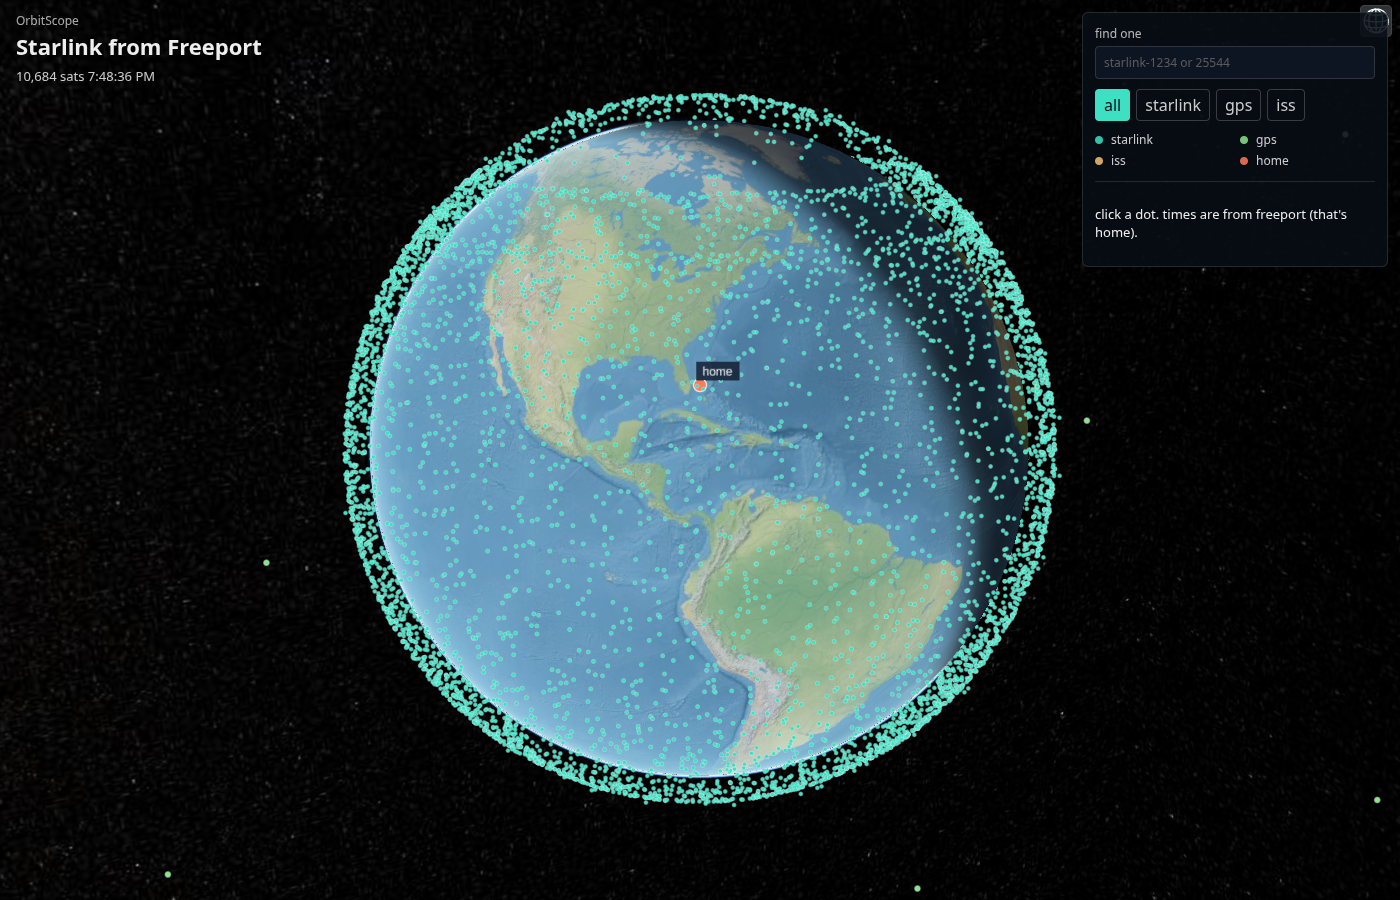
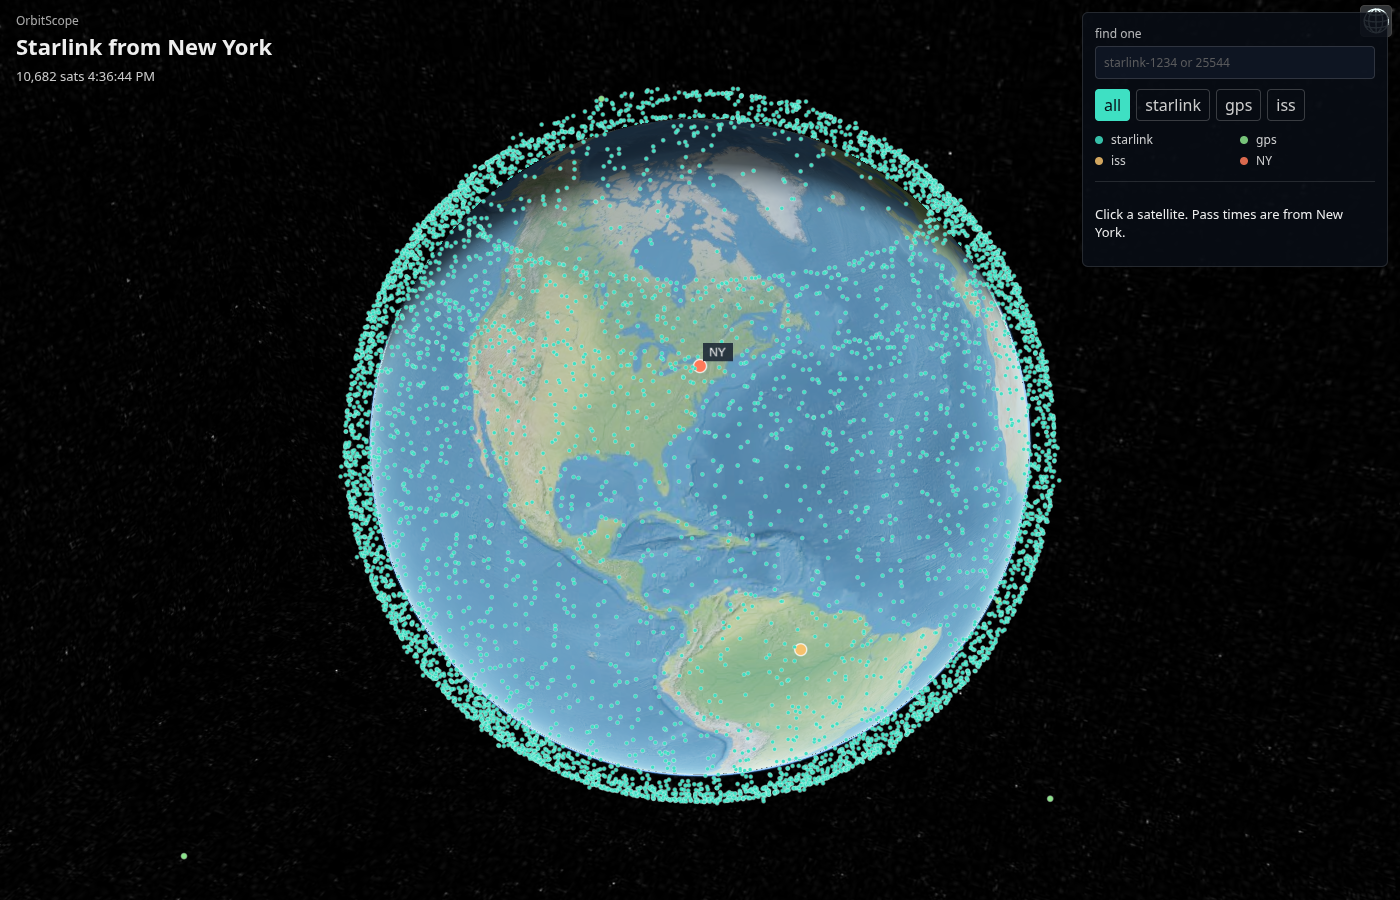
Use New York as the default observer
Pass times and the map pin are for New York in general, not a town.

diff --git a/web/src/globe.ts b/web/src/globe.ts
@@ -45,9 +45,9 @@ export async function createGlobe(container: string): Promise<GlobeHandle> {
   viewer.clock.shouldAnimate = false;
 
   viewer.entities.add({
-    id: "freeport",
-    name: "Freeport, Bahamas",
-    position: Cesium.Cartesian3.fromDegrees(-78.7, 26.5333),
+    id: "newyork",
+    name: "New York",
+    position: Cesium.Cartesian3.fromDegrees(-75.5, 43.0),
     point: {
       pixelSize: 11,
       color: Cesium.Color.fromCssColorString("#ff7a59"),
@@ -55,7 +55,7 @@ export async function createGlobe(container: string): Promise<GlobeHandle> {
       outlineWidth: 1,
     },
     label: {
-      text: "home",
+      text: "NY",
       font: "12px sans-serif",
       fillColor: Cesium.Color.WHITE,
       pixelOffset: new Cesium.Cartesian2(18, -14),
@@ -119,14 +119,14 @@ export async function createGlobe(container: string): Promise<GlobeHandle> {
     if (typeof value === "number") {
       return value;
     }
-    if (value && typeof value.id === "string" && value.id !== "freeport") {
+    if (value && typeof value.id === "string" && value.id !== "newyork") {
       return Number(value.id);
     }
     return undefined;
   };
 
   viewer.camera.setView({
-    destination: Cesium.Cartesian3.fromDegrees(-78.7, 18.0, 18_000_000),
+    destination: Cesium.Cartesian3.fromDegrees(-75.5, 32.0, 18_000_000),
   });
 
   return { viewer, apply, pickId };

diff --git a/web/index.html b/web/index.html
@@ -9,7 +9,7 @@
     <div id="globe"></div>
     <div class="hud">
       <div class="kicker">OrbitScope</div>
-      <h1>Starlink from Freeport</h1>
+      <h1>Starlink from New York</h1>
       <div id="status" class="status">waiting on the api…</div>
     </div>
     <div class="panel">
@@ -27,10 +27,10 @@
         <span><i class="dot starlink"></i> starlink</span>
         <span><i class="dot gps"></i> gps</span>
         <span><i class="dot iss"></i> iss</span>
-        <span><i class="dot ground"></i> home</span>
+        <span><i class="dot ground"></i> NY</span>
       </div>
       <div id="info" class="info">
-        <p>Click a satellite. Pass times are from Freeport.</p>
+        <p>Click a satellite. Pass times are from New York.</p>
       </div>
     </div>
     <script type="module" src="/src/main.ts"></script>

diff --git a/web/src/main.ts b/web/src/main.ts
@@ -34,7 +34,7 @@ async function showInfo(id: number, lat: number, lon: number, alt: number) {
     "<div>group: " + group + "</div>" +
     "<div>lat/lon: " + lat.toFixed(2) + ", " + lon.toFixed(2) + "</div>" +
     "<div>alt: " + alt.toFixed(1) + " km</div>" +
-    "<p class=\"pass\">checking when it flies over home…</p>";
+    "<p class=\"pass\">checking passes…</p>";
 
   try {
     const result = await fetchPasses(id);

diff --git a/src/main/java/orbitscope/web/SatelliteController.java b/src/main/java/orbitscope/web/SatelliteController.java
@@ -35,7 +35,7 @@ public class SatelliteController {
         body.put("name", "OrbitScope");
         body.put("satelliteCount", catalog.catalog().size());
         body.put("updatedAt", catalog.updatedAt());
-        body.put("observer", Observer.FREEPORT.name());
+        body.put("observer", Observer.NEW_YORK.name());
         body.put("endpoints", List.of(
                 "/satellites",
                 "/satellites/{id}/position",
@@ -82,7 +82,7 @@ public class SatelliteController {
     ) {
         Observer observer = (lat != null && lon != null)
                 ? new Observer("Custom", lat, lon, 10.0)
-                : Observer.FREEPORT;
+                : Observer.NEW_YORK;
         Satellite satellite = catalog.require(id);
         List<Pass> predicted = passes.predict(
                 satellite,

diff --git a/src/test/java/orbitscope/orbit/PassPredictorTest.java b/src/test/java/orbitscope/orbit/PassPredictorTest.java
@@ -24,10 +24,10 @@ class PassPredictorTest {
         Satellite iss = TleParser.readFile(Path.of("data/sample-iss.tle")).findById(25544);
         List<Pass> passes = new PassPredictor().predict(
                 iss,
-                Observer.FREEPORT,
+                Observer.NEW_YORK,
                 Instant.parse("2026-10-19T00:00:00Z"),
                 Duration.ofHours(24));
-        assertFalse(passes.isEmpty(), "ISS should rise over Freeport at least once a day");
+        assertFalse(passes.isEmpty(), "ISS should rise over New York at least once a day");
         for (Pass pass : passes) {
             assertTrue(pass.maxElevationDeg() >= 10.0);
             assertTrue(pass.end().isAfter(pass.start()) || pass.end().equals(pass.start()));

diff --git a/src/test/java/orbitscope/web/SatelliteApiTest.java b/src/test/java/orbitscope/web/SatelliteApiTest.java
@@ -61,10 +61,10 @@ class SatelliteApiTest {
     }
 
     @Test
-    void issPassesFromFreeport() throws Exception {
+    void issPassesFromNewYork() throws Exception {
         mvc.perform(get("/satellites/25544/passes").param("hours", "24"))
                 .andExpect(status().isOk())
-                .andExpect(jsonPath("$.observer.name").value("Freeport, Bahamas"))
+                .andExpect(jsonPath("$.observer.name").value("New York"))
                 .andExpect(jsonPath("$.passes").isArray());
     }
 }

diff --git a/src/main/java/orbitscope/orbit/Observer.java b/src/main/java/orbitscope/orbit/Observer.java
@@ -1,10 +1,10 @@
 package orbitscope.orbit;
 
 public record Observer(String name, double latitudeDeg, double longitudeDeg, double altitudeM) {
-    public static final Observer FREEPORT = new Observer(
-            "Freeport, Bahamas",
-            26.5333,
-            -78.7000,
+    public static final Observer NEW_YORK = new Observer(
+            "New York",
+            43.0,
+            -75.5,
             10.0
     );
 }

diff --git a/README.md b/README.md
@@ -1,6 +1,6 @@
 # OrbitScope
 
-Starlink, GPS, and the ISS on a 3D globe. Java/Orekit computes positions, Cesium draws them. Default location is Freeport, Bahamas.
+Starlink, GPS, and the ISS on a 3D globe. Java/Orekit computes positions, Cesium draws them. Default observer is New York.
 
 ![globe](docs/globe.png)
 
@@ -13,7 +13,7 @@ Java 21 and Node.
 ./run.sh web    # http://localhost:5173
 ```
 
-Click a satellite for name, altitude, and the next pass over Freeport.
+Click a satellite for name, altitude, and the next pass over New York.
 
 Orekit downloads `orekit-data/` on first run (not in git). CelesTrak sends an empty file if the User-Agent is missing.
 

diff --git a/NOTES.md b/NOTES.md
@@ -12,6 +12,6 @@ TLE refresh is 3 hours.
 
 Cesium `Entity` collection lagged at ~10k points. Globe uses `PointPrimitiveCollection`. Dots are easy to miss when clicking.
 
-Passes: elevation >= 10°, sampled every 30s. Observer is Freeport.
+Passes: elevation >= 10°, sampled every 30s. Observer is New York.
 
 `KeplerBatch` is only for the benchmark. No GPU here, so no TornadoVM numbers.
